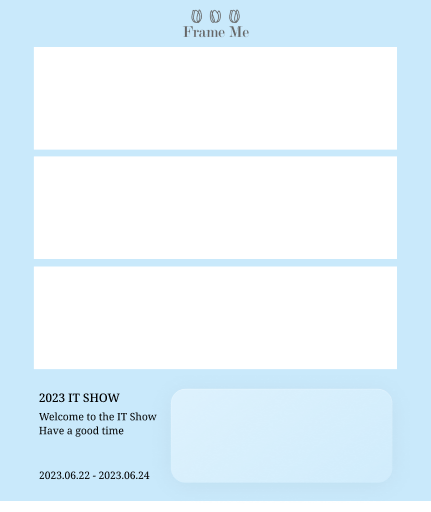
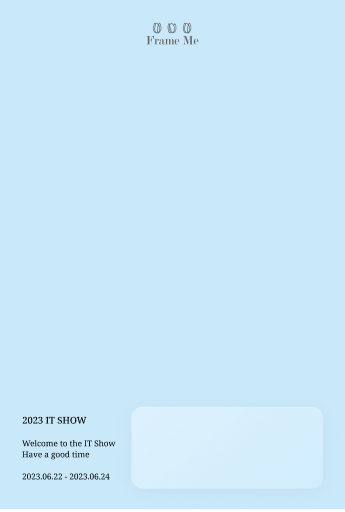
frame 변경, choiceframe

diff --git a/src/pages/Choiceframe.jsx b/src/pages/Choiceframe.jsx
@@ -177,7 +177,6 @@ const handleFilterButtonClick = (filterFunction) => {
               display: getDisplayStyle('f1'),
               marginLeft: "auto",
               marginRight: "auto",
-              marginTop: "-738px",
               marginTop: "10%",
               marginBottom: "50%",
               opacity: "78%"
@@ -194,7 +193,6 @@ const handleFilterButtonClick = (filterFunction) => {
               display: getDisplayStyle('f2'),
               marginLeft: "auto",
               marginRight: "auto",
-              marginTop: "-738px",
               marginTop: "10%",
               marginBottom: "50%",
               opacity: "78%"
@@ -211,7 +209,6 @@ const handleFilterButtonClick = (filterFunction) => {
               display: getDisplayStyle('f3'),
               marginLeft: "auto",
               marginRight: "auto",
-              marginTop: "-738px",
               marginTop: "10%",
               marginBottom: "50%",
               opacity: "78%"
@@ -228,7 +225,7 @@ const handleFilterButtonClick = (filterFunction) => {
               display: getDisplayStyle('f4'),
               marginLeft: "auto",
               marginRight: "auto",
-              marginTop: "-738px",
+              marginTop: "10%",
               marginBottom: "50%",
               opacity: "78%"
             }}
@@ -244,7 +241,7 @@ const handleFilterButtonClick = (filterFunction) => {
               display: getDisplayStyle('f5'),
               marginLeft: "auto",
               marginRight: "auto",
-              marginTop: "-738px",
+              marginTop: "10%",
               marginBottom: "50%",
               opacity: "78%"
             }}
@@ -260,7 +257,7 @@ const handleFilterButtonClick = (filterFunction) => {
               display: getDisplayStyle('f6'),
               marginLeft: "auto",
               marginRight: "auto",
-              marginTop: "-738px",
+              marginTop: "10%",
               marginBottom: "50%",
               opacity: "78%"
             }}
@@ -276,7 +273,7 @@ const handleFilterButtonClick = (filterFunction) => {
               display: getDisplayStyle('f7'),
               marginLeft: "auto",
               marginRight: "auto",
-              marginTop: "-738px",
+              marginTop: "10%",
               marginBottom: "50%",
               opacity: "78%"
             }}
@@ -292,7 +289,7 @@ const handleFilterButtonClick = (filterFunction) => {
               display: getDisplayStyle('f8'),
               marginLeft: "auto",
               marginRight: "auto",
-              marginTop: "-738px",
+              marginTop: "10%",
               marginBottom: "50%",
               opacity: "78%"
             }}
@@ -308,7 +305,7 @@ const handleFilterButtonClick = (filterFunction) => {
               display: getDisplayStyle('f9'),
               marginLeft: "auto",
               marginRight: "auto",
-              marginTop: "-738px",
+              marginTop: "10%",
               marginBottom: "50%",
               opacity: "78%"
             }}
@@ -338,12 +335,12 @@ const handleFilterButtonClick = (filterFunction) => {
           brightnessFilter
           onClick={() => { handleFilterButtonClick(brightnessFilter)}}
       >밝게</Btn>
-      <Btn style={{left: 1243.5, backgroundColor: isHovering2 ? "#FFFAE0" : "white"}}
+      <Btn style={{left: 1255, backgroundColor: isHovering2 ? "#FFFAE0" : "white"}}
           onMouseOver={handleMouseOver2}
           onMouseOut={handleMouseOut2}
           onClick={() => { handleFilterButtonClick(grayscaleFilter) }}
       >흑백</Btn>
-      <Btn style={{left: 1462.5, backgroundColor: isHovering3 ? "#FFFAE0" : "white"}}
+      <Btn style={{left: 1473.5, backgroundColor: isHovering3 ? "#FFFAE0" : "white"}}
           onMouseOver={handleMouseOver3}
           onMouseOut={handleMouseOut3}
           onClick={() => handleFilterButtonClick(originalFilter)}

diff --git a/src/pages/Choiceframe2.jsx b/src/pages/Choiceframe2.jsx
@@ -328,18 +328,18 @@ function Choiceframe2() {
             }}
           />
         </div>
-        <Btn style={{left: 972.5, backgroundColor: isHovering ? "#FFFAE0" : "white"}}        
+        <Btn style={{left: 1022.5, backgroundColor: isHovering ? "#FFFAE0" : "white"}}        
           onMouseOver={handleMouseOver}
           onMouseOut={handleMouseOut}
           brightnessFilter
           onClick={() => { handleFilterButtonClick(brightnessFilter)}}
       >밝게</Btn>
-      <Btn style={{left: 1197.5, backgroundColor: isHovering2 ? "#FFFAE0" : "white"}}
+      <Btn style={{left: 1255, backgroundColor: isHovering2 ? "#FFFAE0" : "white"}}
           onMouseOver={handleMouseOver2}
           onMouseOut={handleMouseOut2}
           onClick={() => { handleFilterButtonClick(grayscaleFilter) }}
       >흑백</Btn>
-      <Btn style={{left: 1422.5, backgroundColor: isHovering3 ? "#FFFAE0" : "white"}}
+      <Btn style={{left: 1473.5, backgroundColor: isHovering3 ? "#FFFAE0" : "white"}}
           onMouseOver={handleMouseOver3}
           onMouseOut={handleMouseOut3}
           onClick={() => handleFilterButtonClick(originalFilter)}
